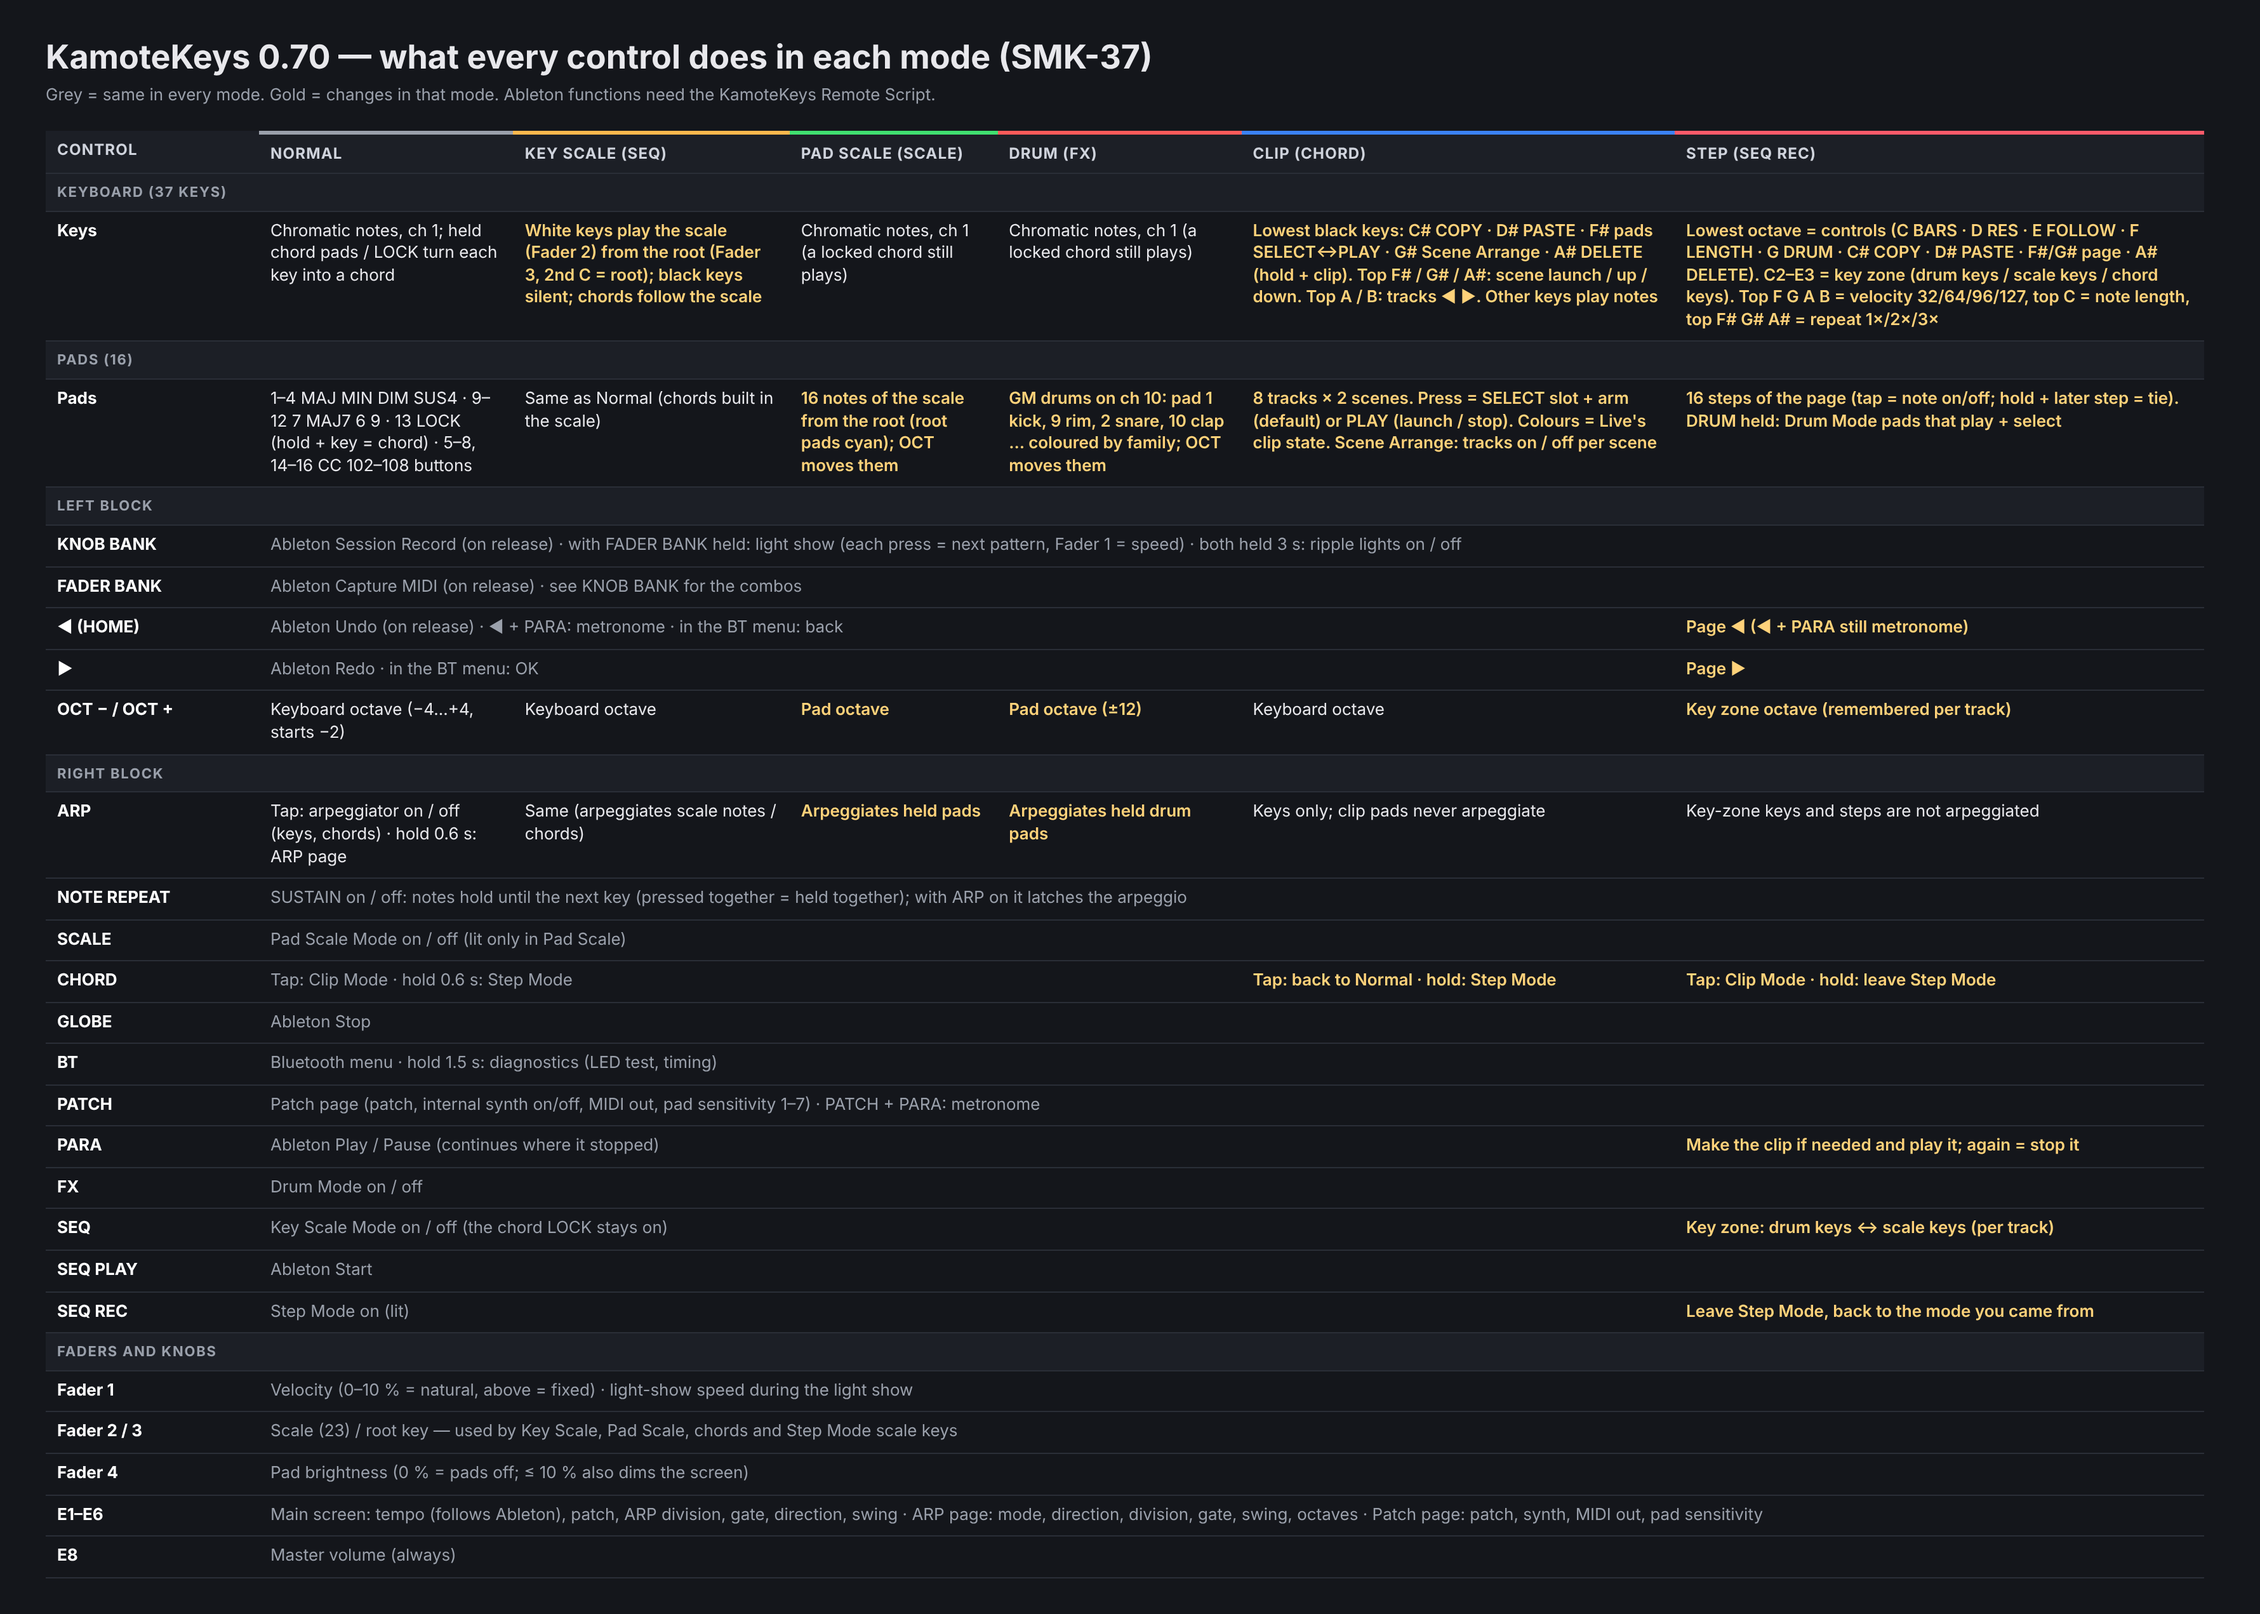
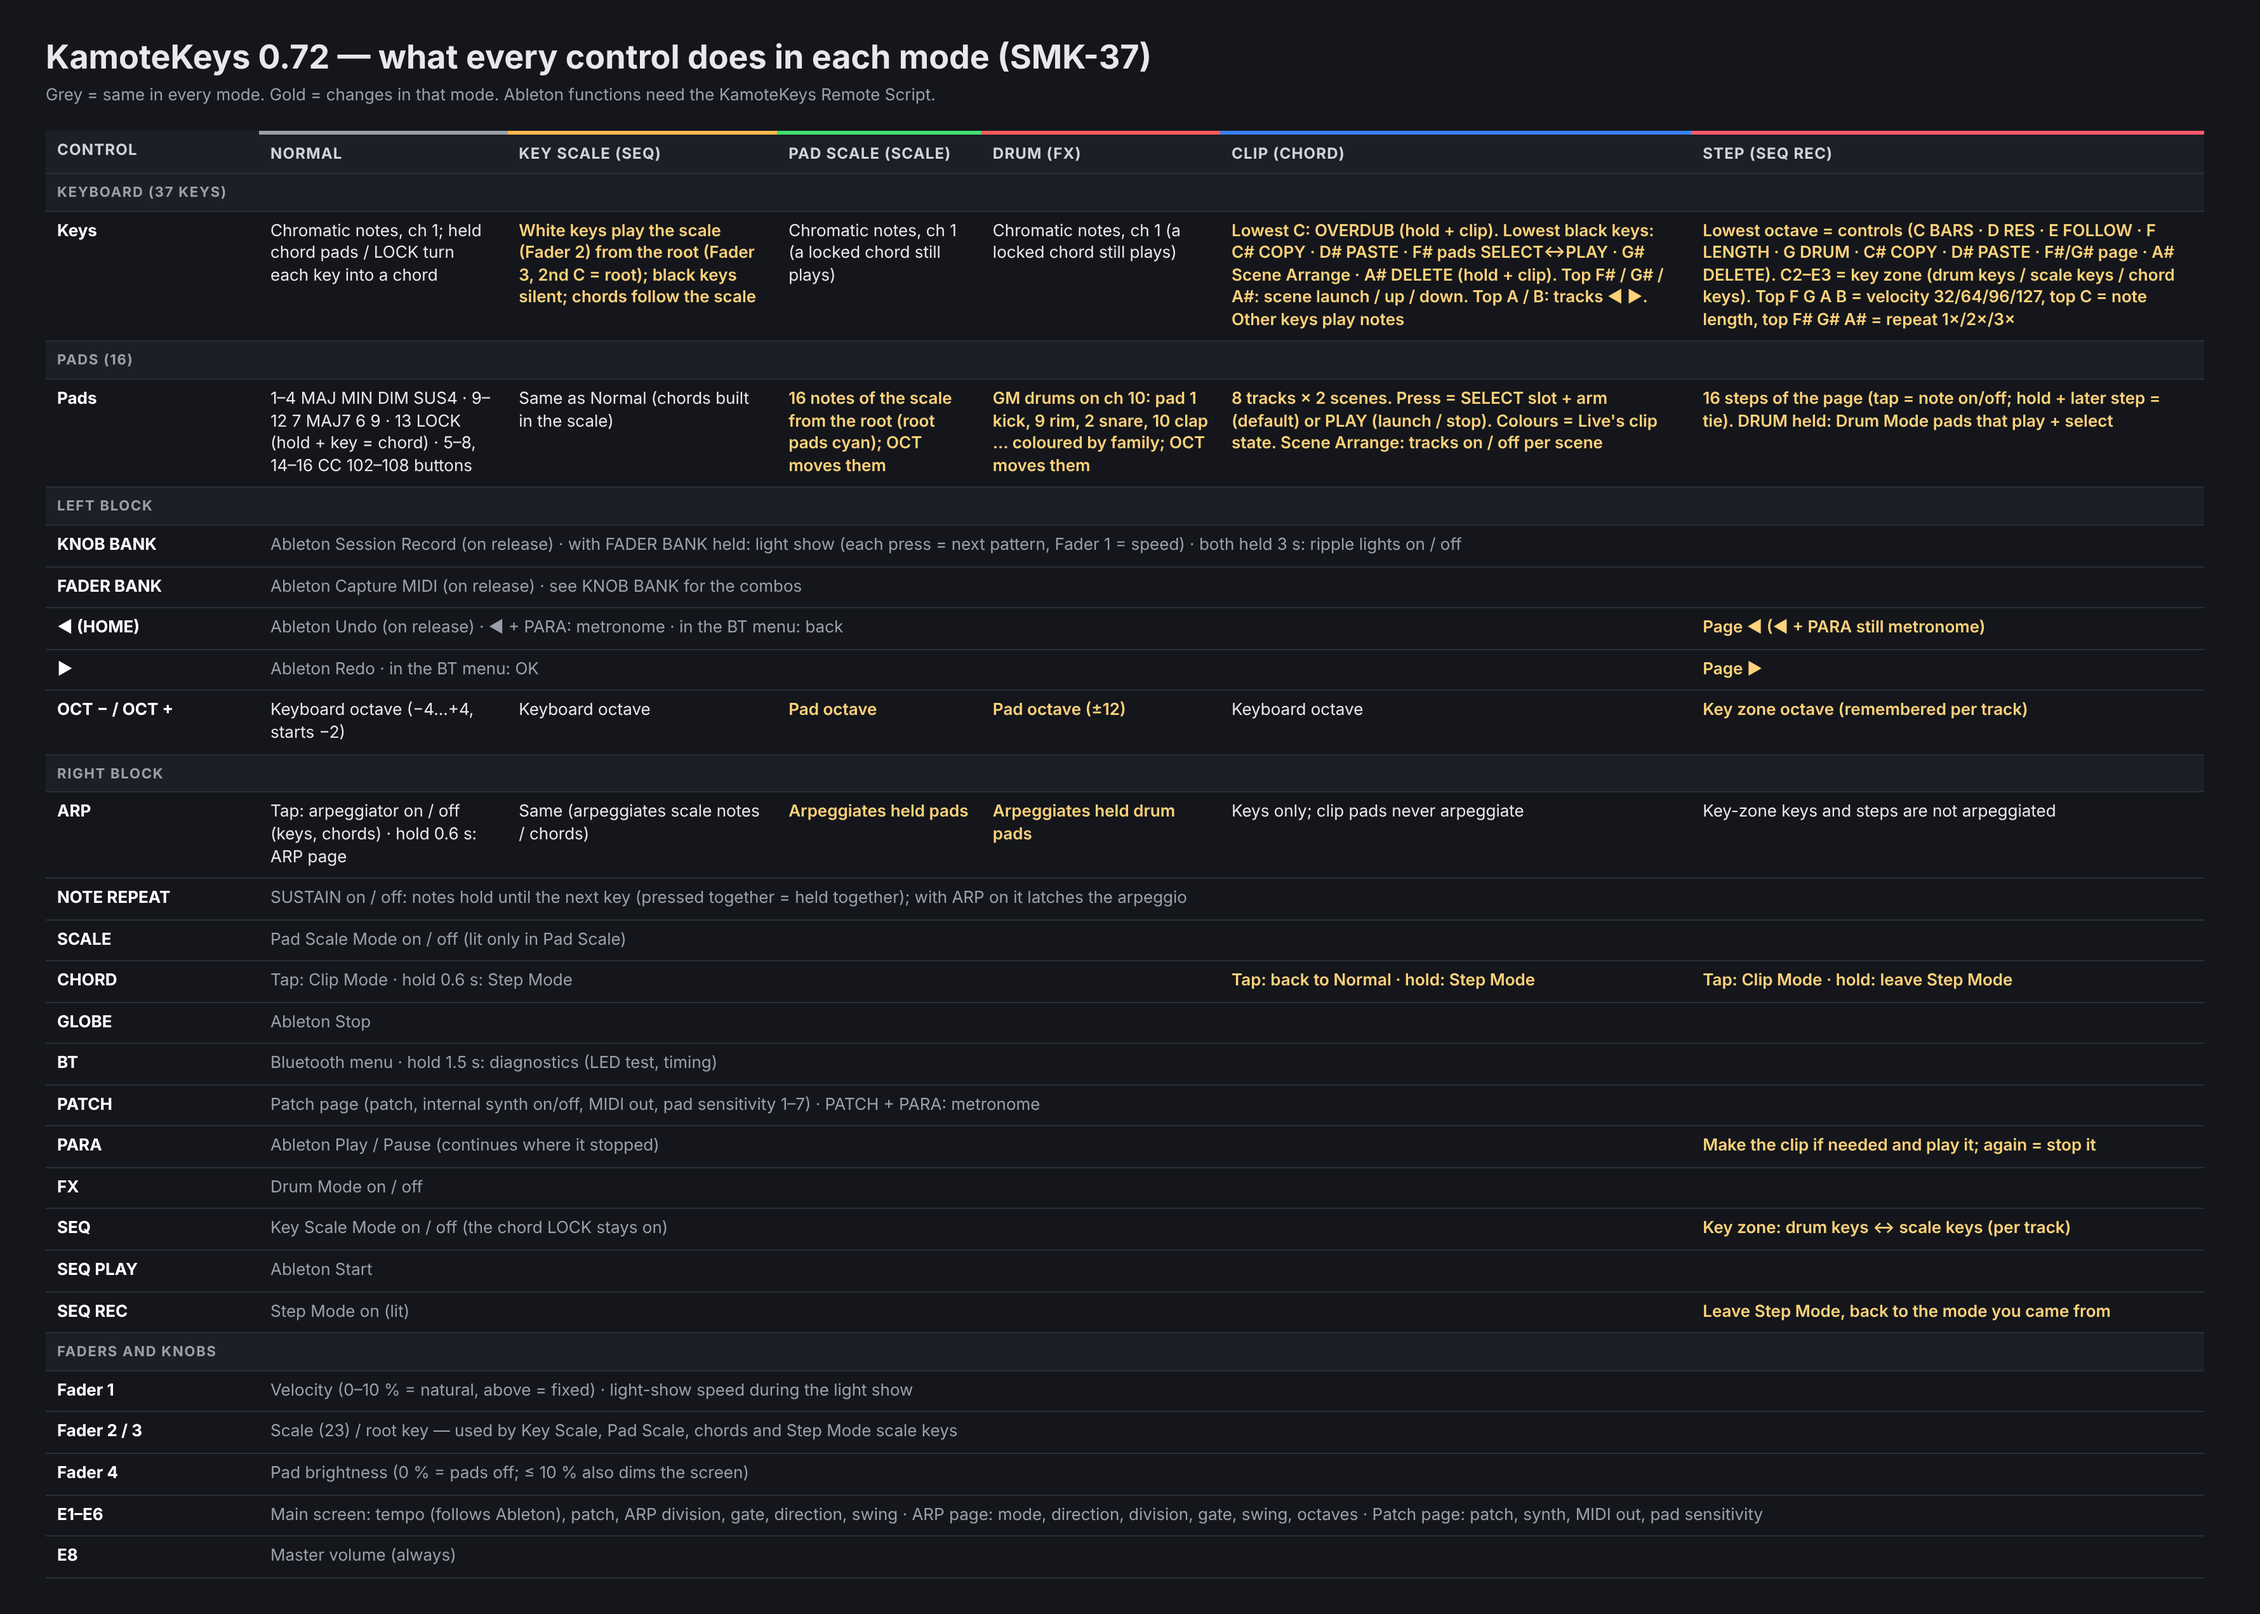
KamoteKeys 0.72: Clip Mode overdub on the lowest C (hold + clip)
Claude-Session: https://claude.ai/code/session_014nKCDtX9z2HT4cnrjTFgfW

diff --git a/tests/host/test_live.c b/tests/host/test_live.c
@@ -106,6 +106,12 @@ void test_031(void)
     host_clear(); key(1, 100); key(1, 0); key(3, 100); key(3, 0);
     CHECK(out_count(USB, 0x9F, KK_CLIP_COPY_NOTE) == 1 && out_count(USB, 0x8F, KK_CLIP_COPY_NOTE) == 1 &&
           out_count(USB, 0x9F, KK_CLIP_PASTE_NOTE) == 1 && host_local_n == 0, "C# / D# -> COPY / PASTE notes");
+    /* 0.72: the lowest C held + a clip = OVERDUB (note 52+), C itself silent. */
+    host_clear(); key(0, 100); pad(3, 100); pad(3, 0);
+    CHECK(kk.clip_action == 1 && out_count(USB, 0x9F, 52 + 2) == 1 && out_count(USB, 0x8F, 52 + 2) == 1 && out_count(USB, 0x90, -1) == 0,
+          "lowest C + pad 3 -> overdub note 54, C silent");
+    frames(20, 5); shot("17_clip_overdub");
+    key(0, 0); CHECK(kk.clip_action == 0, "C released: plain press again");
     host_clear(); key(10, 100); pad(10, 100); pad(10, 0);
     CHECK(kk.clip_action == 2 && out_count(USB, 0x9F, 68 + 9) == 1 && out_count(USB, 0x8F, 68 + 9) == 1, "A# + pad 10 -> delete note 77");
     frames(20, 5); shot("17_clip_delete");

diff --git a/devices/smk37/app/kamotkeys/kk_device.h b/devices/smk37/app/kamotkeys/kk_device.h
@@ -26,7 +26,7 @@ enum { KK_VELOCITY_DEFAULT = 100 };
 #define KK_CLIP_PRESS_SELECT 1
 enum { KK_CLIP_COPY_KEY = 1, KK_CLIP_PASTE_KEY = 3, KK_CLIP_TOGGLE_KEY = 6, KK_CLIP_ARRANGE_KEY = 8,   /* G#: Scene Arrange (0.66) */
        KK_TRACKS_LEFT_KEY = 33, KK_TRACKS_RIGHT_KEY = 35,                                        /* top A / B: 8-track view (0.67) */
-       KK_CLIP_DELETE_KEY = 10, KK_CLIP_OVERDUB_KEY = 255 };
+       KK_CLIP_DELETE_KEY = 10, KK_CLIP_OVERDUB_KEY = 0 };   /* 0.72: lowest C held + clip = OVERDUB */
 /* The third black key (F#) held + clip = SELECT (select the slot, arm its
  * track); the fourth (G#) = launch the selected scene; the last two black
  * keys (top G#, A#) = scene up, scene down. */

diff --git a/core/kamotkeys/kk_config.h b/core/kamotkeys/kk_config.h
@@ -12,7 +12,7 @@
 #define KK_CONFIG_H
 
 #define KAMOTKEYS_NAME "KamoteKeys"
-#define KAMOTKEYS_VERSION "0.71" KK_DEVICE_SUFFIX
+#define KAMOTKEYS_VERSION "0.72" KK_DEVICE_SUFFIX
 #define KAMOTKEYS_TITLE KAMOTKEYS_NAME " " KAMOTKEYS_VERSION
 
 /* MIDI channels, zero based (channel 1 = 0). */

diff --git a/README.md b/README.md
@@ -160,7 +160,7 @@ The **second physical C** plays the selected tonic, at octave 0 the tonic in the
 
 ### Clip Mode (CHORD)
 
-Pads 1–8 launch clip 1 and pads 9–16 clip 2 of Live tracks 1–8, on channel 16, with LEDs that follow Live (empty very dim, stopped dim blue, playing green, queued blinking amber, recording red). Needs the [KamoteKeys Remote Script](docs/ABLETON_REMOTE_SCRIPT.md). A plain pad press **selects** the slot and arms its track (so KNOB BANK records there); the **F#** key toggles pads to **play** (launch / stop), remembered after power-off. Lowest black keys: **C# COPY**, **D# PASTE** (tap = next pad, hold = several), F# select ↔ play, **G# Scene Arrange** (tap pads to choose which tracks play in each scene; top F# launches exactly those), **A# DELETE** (hold + clip); white **top A / B** move the 8-track view; top **F# / G# / A#** = scene launch / up / down. The screen shows what is copied. Live's highlighted slot is **violet**. Full guide: [docs/ABLETON_REMOTE_SCRIPT.md](docs/ABLETON_REMOTE_SCRIPT.md), [diagram](docs/diagrams/SMK37-Clip-Mode.png).
+Pads 1–8 launch clip 1 and pads 9–16 clip 2 of Live tracks 1–8, on channel 16, with LEDs that follow Live (empty very dim, stopped dim blue, playing green, queued blinking amber, recording red). Needs the [KamoteKeys Remote Script](docs/ABLETON_REMOTE_SCRIPT.md). A plain pad press **selects** the slot and arms its track (so KNOB BANK records there); the **F#** key toggles pads to **play** (launch / stop), remembered after power-off. Hold the **lowest C** + a clip to **overdub** into it. Lowest black keys: **C# COPY**, **D# PASTE** (tap = next pad, hold = several), F# select ↔ play, **G# Scene Arrange** (tap pads to choose which tracks play in each scene; top F# launches exactly those), **A# DELETE** (hold + clip); white **top A / B** move the 8-track view; top **F# / G# / A#** = scene launch / up / down. The screen shows what is copied. Live's highlighted slot is **violet**. Full guide: [docs/ABLETON_REMOTE_SCRIPT.md](docs/ABLETON_REMOTE_SCRIPT.md), [diagram](docs/diagrams/SMK37-Clip-Mode.png).
 
 ### Step Mode (SEQ REC, or hold CHORD)
 

diff --git a/docs/ABLETON_REMOTE_SCRIPT.md b/docs/ABLETON_REMOTE_SCRIPT.md
@@ -62,6 +62,7 @@ Live talks to the script on **one** MIDI port. In Preferences → Link, Tempo & 
 | Key | Does |
 |---|---|
 | plain pad press | **SELECT** (default): selects the slot and **arms its track** (disarms the others), so the next Session Record (KNOB BANK) records there. Toggled to **PLAY** it launches / stops as in the table above |
+| **lowest C** (white) | hold + a clip: **overdub** into it (an empty slot: arm and record a new clip); the same again ends it (0.72) |
 | **F#** (3rd black) | pads: SELECT ↔ PLAY (remembered after power-off; the screen shows PADS: SELECT / PLAY) |
 | **C#** COPY | tap (or hold), then press a clip: it becomes the clipboard (replacing the last one) |
 | **D#** PASTE | tap, then the next pad gets a copy of the clip (Live's Duplicate); hold PASTE to paste into several pads; tap again to cancel |

diff --git a/CHANGELOG.md b/CHANGELOG.md
@@ -1,5 +1,9 @@
 # Changelog
 
+## KamoteKeys 0.72 (development snapshot)
+
+- **Clip Mode overdub key (SMK-37):** hold the lowest C and press a clip to overdub into it (an empty slot: arm the track and record a new clip); pressing it again ends the overdub. The screen shows OVERDUB while C is held.
+
 ## KamoteKeys 0.71 (development snapshot)
 
 - **Remote Script traffic follows the script's port:** the keyboard remembers which port (USB or Bluetooth) the KamoteKeys script greets it on and sends Clip Mode, Step Mode and Ableton messages there, whatever MIDI OUT AUTO would pick (USB and Bluetooth both connected no longer splits them).
